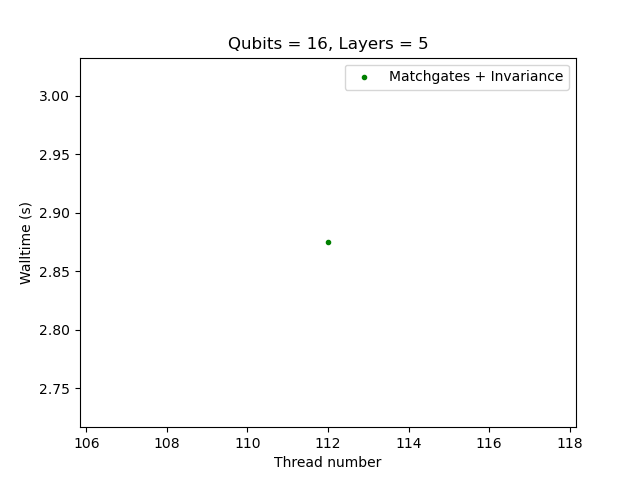
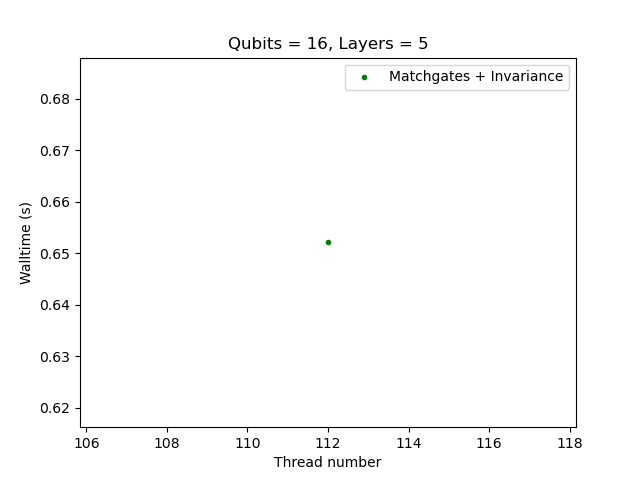
"Plotting mpi benchs"

diff --git a/benchmark_hpc/bench_out/plot_mpi.py b/benchmark_hpc/bench_out/plot_mpi.py
@@ -4,7 +4,7 @@ import os
 import numpy as np
 import matplotlib.pyplot as plt
 
-nqubits = 12
+nqubits = 16
 nlayers = 5
 ulayers = 253
 
@@ -13,16 +13,23 @@ script_dir = os.path.dirname(__file__)
 
 
 script_dir = os.path.dirname(__file__)
-file_list = glob.glob(f"mpi*n5*.hdf5", root_dir=script_dir)
+file_list = glob.glob(f"mpi/mpi*n5*.hdf5", root_dir=script_dir)
 
-file0 = os.path.join(script_dir, "n5_q16_u253_th112_110_threads_bench_matchgate.hdf5")
+file0 = os.path.join(script_dir, f"q{nqubits}","n5_q16_u601_th112_110_threads_bench_matchgate.hdf5")
+file1 = os.path.join(script_dir, f"q{nqubits}","n5_q16_u253_th56_110_threads_bench_matchgate.hdf5")
 
 
 
 with h5py.File(os.path.join(script_dir, file0), "r") as f:
     t0 = f.attrs["Walltime"]
 
-print(f"1 Node  t: {t0}s")
+
+with h5py.File(os.path.join(script_dir, file1), "r") as f:
+    t1 = f.attrs["Walltime"]
+
+
+print(f"1 Node; 56 threads:{t1}s")
+print(f"1 Node; 112 threads: {t0}s")
 
 wtime = []
 threads = []
@@ -38,4 +45,23 @@ for file in file_list:
 for i in range(len(file_list)):
     print(f"Tasks: {tasks[i]}, threads: {threads[i]}, wtime: {wtime[i]} s")
 
+
+threads = np.array(threads)
+wtime = np.array(wtime)
+
+cores = threads*tasks
+
+xy = zip(cores, wtime)
+
+xy1_sorted = sorted(xy, key = lambda pair: pair[0])
+
+cores_sorted, wtime_sorted = zip(*xy1_sorted) 
+
+cores = np.array(cores_sorted)
+wtime = np.array(wtime_sorted)
+
+fig, ax = plt.subplots()
+ax.scatter(cores, wtime[0]/wtime)
+ax.plot([112, 112*4], [1, 4])
+fig.savefig(f"{script_dir}/mpi/plots/mpi_n{nlayers}_u{ulayers}")
 

diff --git a/benchmark_hpc/bench_out/plot_threads.py b/benchmark_hpc/bench_out/plot_threads.py
@@ -5,8 +5,8 @@ import numpy as np
 import matplotlib.pyplot as plt
 
 
-nqubits = 12
-nlayers = 11
+nqubits = 16
+nlayers = 5
 ulayers = 601
 
 script_dir = os.path.dirname(__file__)
